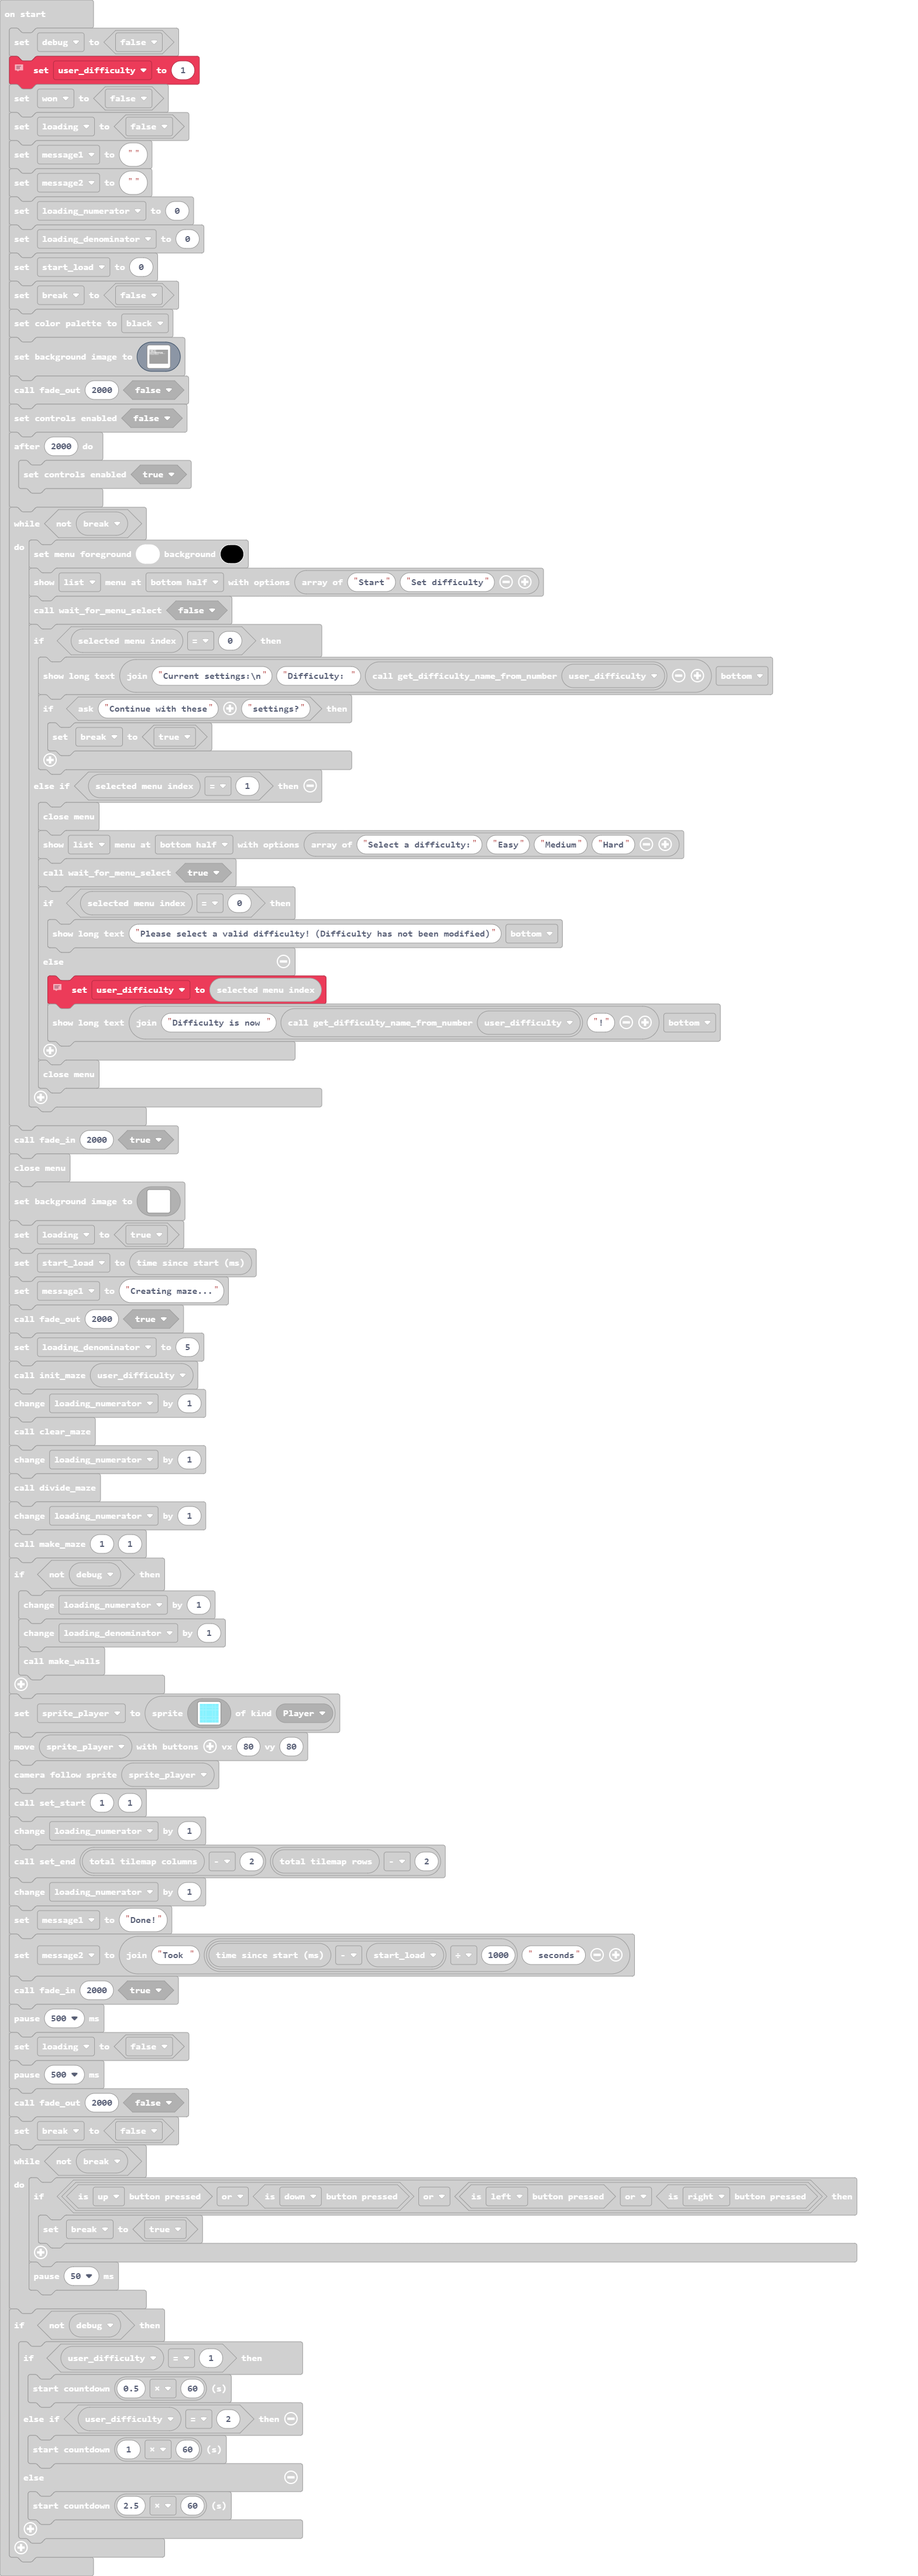
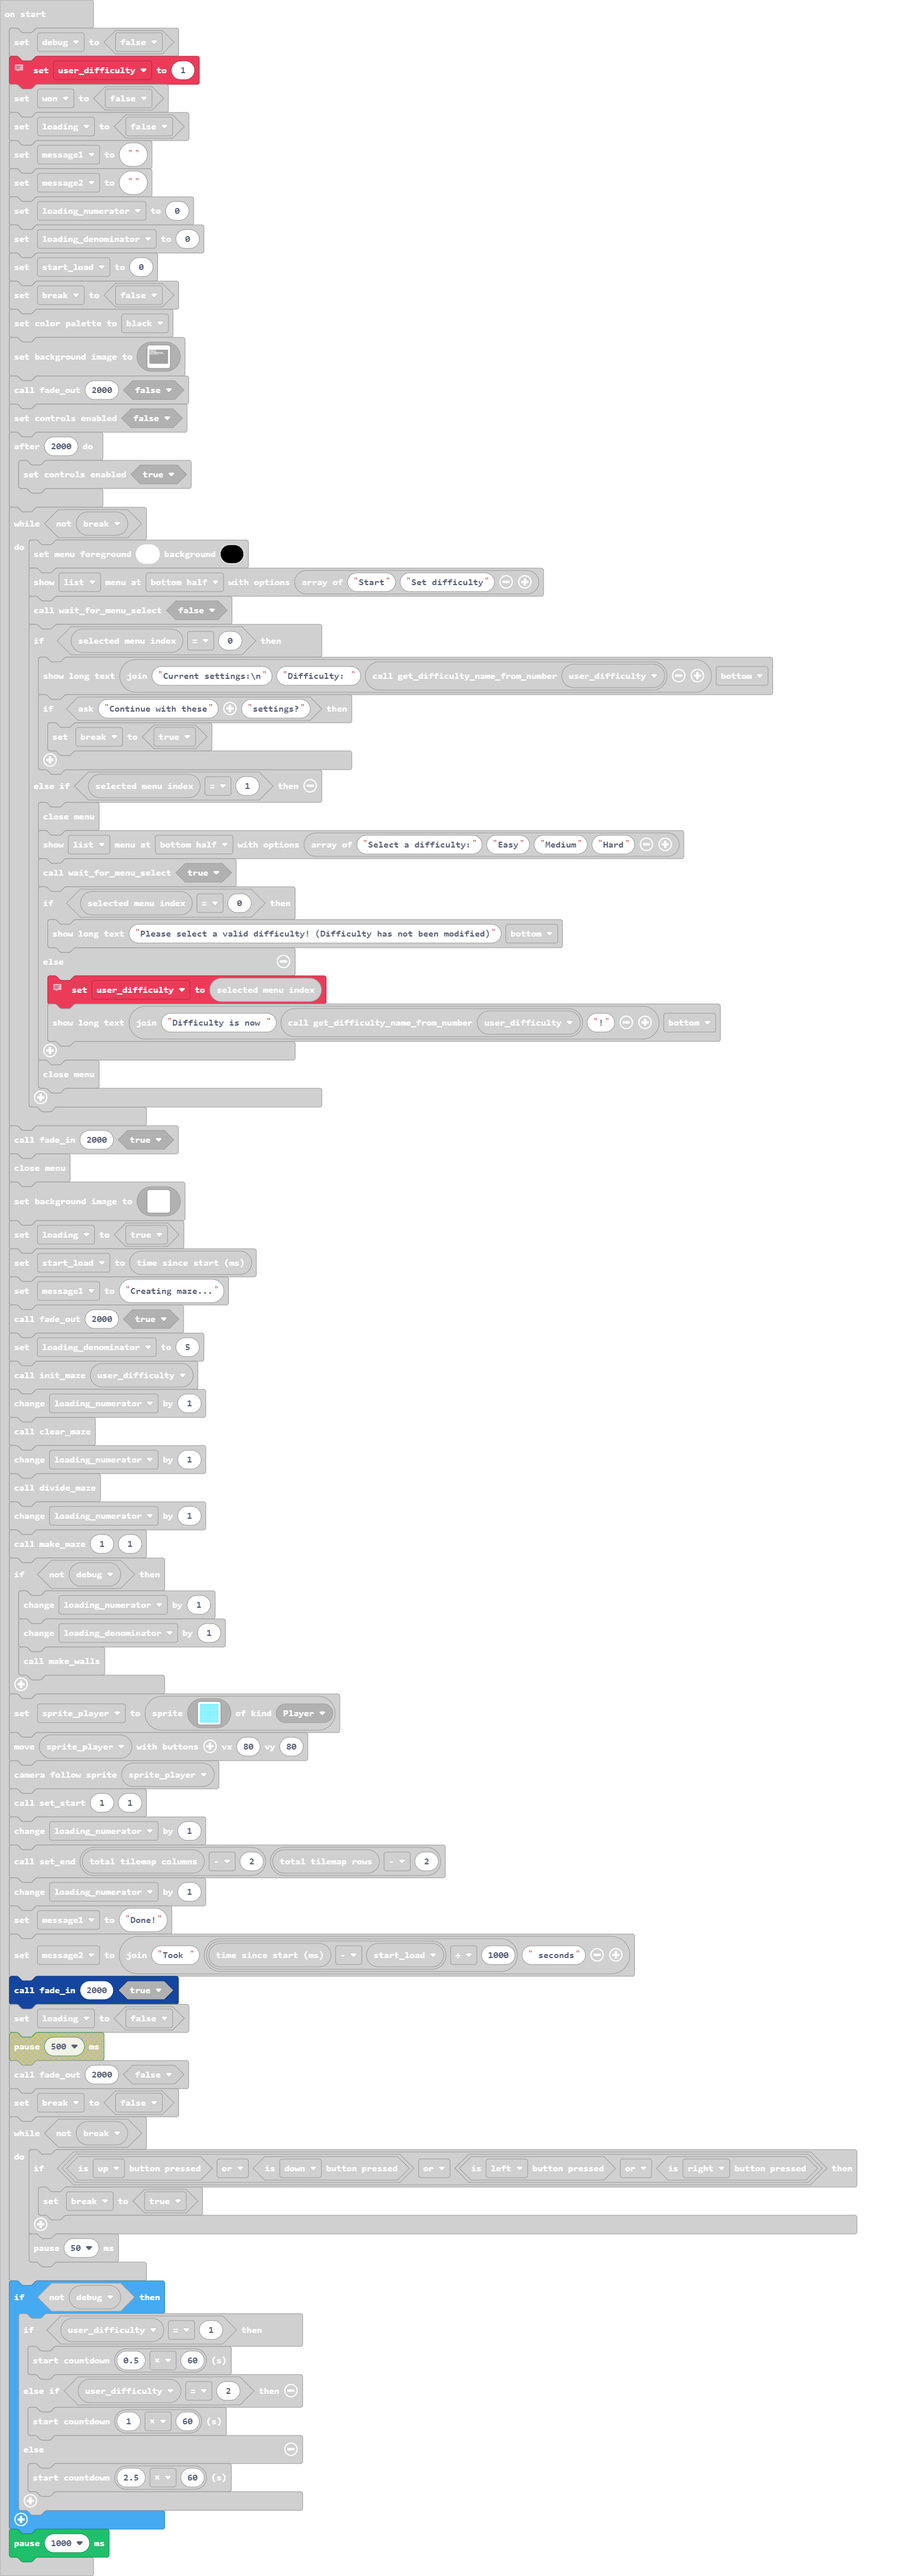
Remove delay

Changed region(s): [[0.0, 0.7476, 0.9369, 0.9968], [0.1562, 0.1246, 0.1874, 0.1558]]

diff --git a/main.ts b/main.ts
@@ -732,9 +732,8 @@ loading_numerator += 1
 message1 = "Done!"
 message2 = "Took " + (game.runtime() - start_load) / 1000 + " seconds"
 fade_in(2000, true)
-pause(500)
 loading = false
-pause(500)
+pause(1000)
 fade_out(2000, false)
 _break = false
 while (!(_break)) {
